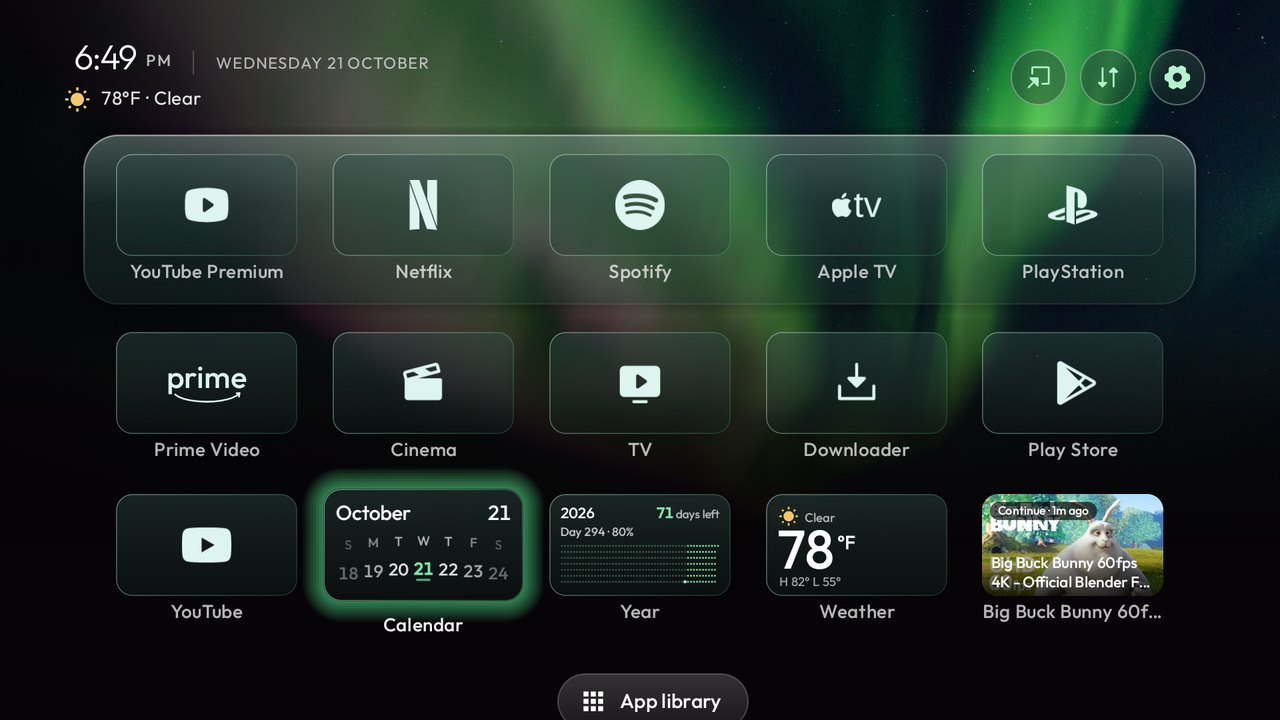
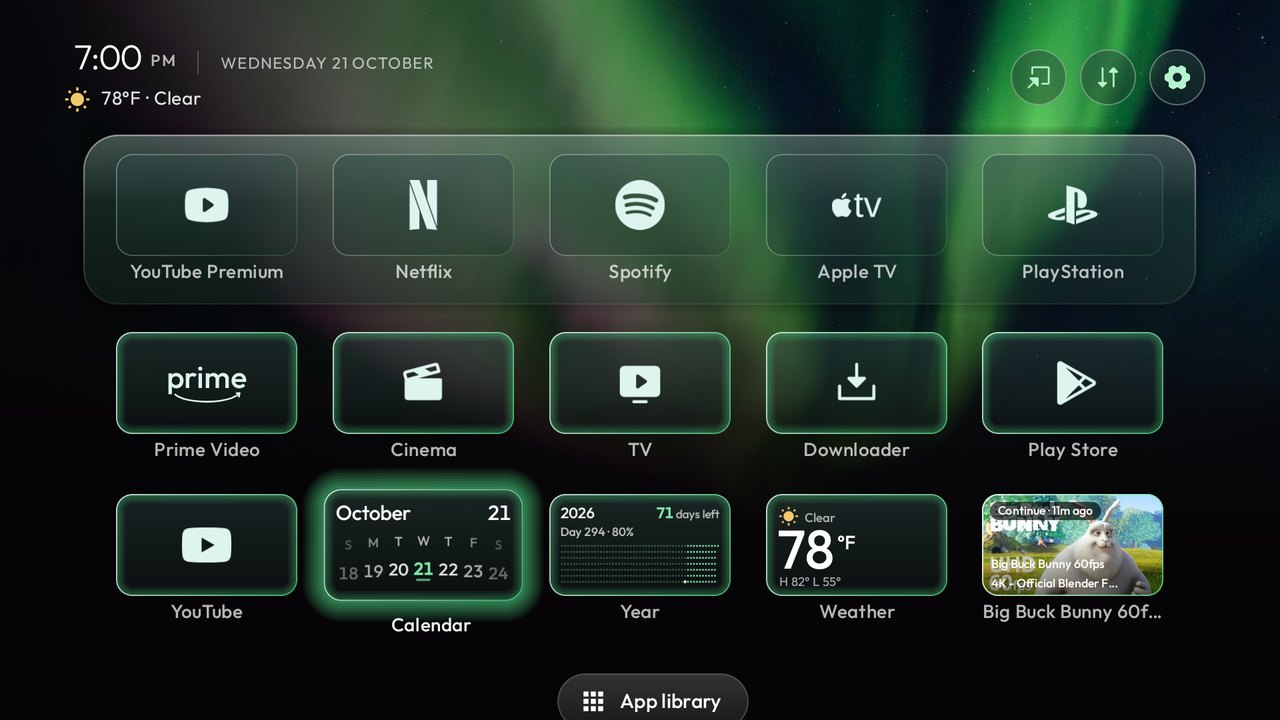
Outline row-two and widget tiles, stack screensaver widgets, refresh screenshots (#3)

diff --git a/launcher/app/src/main/java/com/gathin/tvhome/AppIcon.java b/launcher/app/src/main/java/com/gathin/tvhome/AppIcon.java
@@ -23,9 +23,17 @@ final class AppIcon extends Drawable {
     private final RectF panel = new RectF(1, 1, 319, 179);
     private final Drawable glyph;
     private final boolean prime;
+    private final Paint glowRim = new Paint(Paint.ANTI_ALIAS_FLAG);
+    private final Paint glowInner = new Paint(Paint.ANTI_ALIAS_FLAG);
+    private final RectF innerPanel = new RectF();
+    /** Rows under the dock and the widget tiles share a lit edge with a soft accent glow just inside it. */
+    private boolean outlined;
+    private final int accent;
 
     AppIcon(Context ctx, String pkg, Drawable fallback, boolean light, int accent) {
         int id = glyph(pkg);
+        this.accent = Tint.accent(accent);
+        outlined = pkg.equals("widget");
         prime = pkg.equals("com.amazon.amazonvideo.livingroom");
         Drawable source = id != 0 ? ctx.getDrawable(id) : fallback;
         if (source instanceof AdaptiveIconDrawable) source = ((AdaptiveIconDrawable) source).getForeground();
@@ -53,6 +61,19 @@ final class AppIcon extends Drawable {
         rim.setShader(new LinearGradient(0, 0, 320, 180,
                 light ? 0x99FFFFFF : Tint.withAlpha(ink, 0x80),
                 Tint.withAlpha(accent, 0x35), Shader.TileMode.CLAMP));
+        glowRim.setStyle(Paint.Style.STROKE);
+        glowRim.setStrokeWidth(2.6f);
+        glowRim.setShader(new LinearGradient(0, 0, 320, 180,
+                light ? 0xE6FFFFFF : Tint.withAlpha(ink, 0xE0),
+                Tint.withAlpha(this.accent, 0xC0), Shader.TileMode.CLAMP));
+        glowInner.setStyle(Paint.Style.STROKE);
+        glowInner.setStrokeWidth(3.6f);
+    }
+
+    void setOutlined(boolean outlined) {
+        if (this.outlined == outlined) return;
+        this.outlined = outlined;
+        invalidateSelf();
     }
 
     void setFocused(boolean focused) {
@@ -68,6 +89,7 @@ final class AppIcon extends Drawable {
             case "com.spotify.tv.android": return R.drawable.ic_brand_spotify;
             case "com.apple.atve.androidtv.appletv": return R.drawable.ic_brand_appletv;
             case "org.smarttube.stable": return R.drawable.ic_glyph_smarttube;
+            case "com.community.mbox.tv": return R.drawable.ic_glyph_moviebox;
             case "tv.own.owntv": return R.drawable.ic_glyph_owntv;
             case "ar.tvplayer.tv": return R.drawable.ic_glyph_tivimate;
             case "com.esaba.downloader": return R.drawable.ic_glyph_downloader;
@@ -82,7 +104,17 @@ final class AppIcon extends Drawable {
         c.translate(b.left, b.top);
         c.scale(b.width() / 320f, b.height() / 180f);
         c.drawRoundRect(panel, 28, 28, material);
-        c.drawRoundRect(panel, 28, 28, rim);
+        if (outlined) {
+            for (int i = 0; i < 4; i++) {
+                float inset = 3f + i * 3.4f;
+                innerPanel.set(panel.left + inset, panel.top + inset, panel.right - inset, panel.bottom - inset);
+                glowInner.setColor(Tint.withAlpha(accent, Math.round(0x46 * (1f - i / 4f))));
+                c.drawRoundRect(innerPanel, 28 - inset, 28 - inset, glowInner);
+            }
+            c.drawRoundRect(panel, 28, 28, glowRim);
+        } else {
+            c.drawRoundRect(panel, 28, 28, rim);
+        }
         if (prime) {
             c.drawText("prime", 160, 99, mark);
             mark.setStyle(Paint.Style.STROKE);

diff --git a/launcher/app/src/main/java/com/gathin/tvhome/AppAdapter.java b/launcher/app/src/main/java/com/gathin/tvhome/AppAdapter.java
@@ -413,10 +413,11 @@ public class AppAdapter extends RecyclerView.Adapter<RecyclerView.ViewHolder> {
                 String ago = RecentArt.shortAgo(now - (thumb != null ? Math.max(when, Thumbs.savedAt(ctx, a.pkg)) : when));
                 Drawable base = thumb != null ? thumb : glassIcons || a.banner == null || a.banner.getConstantState() == null
                         ? new AppIcon(ctx, a.pkg, a.icon, light, themeAccent) : a.banner.getConstantState().newDrawable().mutate();
+                if (base instanceof AppIcon) ((AppIcon) base).setOutlined(true);
                 String pill = ctx.getString(thumb != null ? R.string.recent_continue : R.string.recent_recent, ago);
                 zone.add(new Entry(Entry.RECENT, title != null ? title : a.label,
                         new ComponentName(a.pkg, "recent/" + a.component.getClassName()),
-                        a.component, new RecentArt(ctx, base, pill, title), a.icon, null, a.ambient, 0));
+                        a.component, new RecentArt(ctx, base, pill, title, themeAccent), a.icon, null, a.ambient, 0));
                 break;
             }
         }
@@ -605,7 +606,10 @@ public class AppAdapter extends RecyclerView.Adapter<RecyclerView.ViewHolder> {
         boolean glassTile = glassIcons && (e.kind == Entry.APP || e.kind == Entry.INPUT || e.kind == Entry.HOME_SETTINGS);
         if (glassTile && e.glassArt == null) e.glassArt = new AppIcon(ctx, e.pkg, e.icon, light, themeAccent);
         Drawable art = glassTile ? e.glassArt : e.banner;
-        if (art instanceof AppIcon) ((AppIcon) art).setFocused(focused);
+        if (art instanceof AppIcon) {
+            ((AppIcon) art).setFocused(focused);
+            ((AppIcon) art).setOutlined(e.kind == Entry.WIDGET || !(dockRow && position < dockSize));
+        }
         boolean bare = glassTile || e.kind == Entry.WIDGET || e.kind == Entry.RECENT;
         h.card.setBackground(bare || art != null && art.getOpacity() == PixelFormat.OPAQUE ? null : h.cardBackground);
         if (art != null) {

diff --git a/launcher/app/src/main/java/com/gathin/tvhome/RecentArt.java b/launcher/app/src/main/java/com/gathin/tvhome/RecentArt.java
@@ -27,13 +27,19 @@ final class RecentArt extends Drawable {
     private final Paint fill = new Paint(Paint.ANTI_ALIAS_FLAG);
     private final TextPaint text = new TextPaint(Paint.ANTI_ALIAS_FLAG);
     private final RectF box = new RectF();
+    private final Paint rim = new Paint(Paint.ANTI_ALIAS_FLAG);
+    private final RectF panel = new RectF(1, 1, 319, 179);
     private StaticLayout titleLayout;
 
-    RecentArt(Context ctx, Drawable base, String pill, String title) {
+    RecentArt(Context ctx, Drawable base, String pill, String title, int accent) {
         this.base = base;
         this.pill = pill;
         this.title = title;
         text.setTypeface(ctx.getResources().getFont(R.font.outfit_medium));
+        // The same lit edge the other row-two and widget tiles have, so a picture tile sits in the row.
+        rim.setStyle(Paint.Style.STROKE);
+        rim.setStrokeWidth(2.6f);
+        rim.setShader(new LinearGradient(0, 0, 320, 180, 0xE0FFFFFF, Tint.withAlpha(Tint.accent(accent), 0xC0), Shader.TileMode.CLAMP));
     }
 
     @Override public void draw(Canvas c) {
@@ -62,6 +68,7 @@ final class RecentArt extends Drawable {
             titleLayout.draw(c);
             c.restore();
         }
+        if (!(base instanceof AppIcon)) c.drawRoundRect(panel, 28, 28, rim);
         text.setTextSize(21);
         text.setTypeface(Typeface.create(text.getTypeface(), Typeface.NORMAL));
         float pw = text.measureText(pill) + 28;

diff --git a/launcher/app/src/main/java/com/gathin/tvhome/ClockScene.java b/launcher/app/src/main/java/com/gathin/tvhome/ClockScene.java
@@ -87,8 +87,9 @@ final class ClockScene {
         }
         float widgetScale = WidgetScale.factor(root.getContext());
         if (monthCard != null) {
-            WidgetScale.apply(monthCard, widgetScale);
-            WidgetScale.apply(yearCard, widgetScale);
+            // The cards are stacked under the clock, so Large would run off the bottom of a 1080p screen.
+            WidgetScale.apply(monthCard, Math.min(widgetScale, 1f));
+            WidgetScale.apply(yearCard, Math.min(widgetScale, 1f));
         }
         weatherLine = config.weather ? root.findViewById(R.id.dreamWeather) : null;
         if (weatherLine != null) weatherLine.setTextSize(18 * widgetScale);

diff --git a/README.md b/README.md
@@ -25,7 +25,7 @@ A glass launcher with 16 themes, an Apple-style magnifying dock and optional wid
 
 ### Glass dock
 
-The dock magnifies the app under focus, and a soft light in the theme's colour flows along it.
+The dock magnifies the app under focus, and a soft light in the theme's colour flows along it. Row-two and widget tiles share one lit, glowing outline, so the whole home reads as one piece.
 
 ![The home screen: a glass dock with five apps, a row of apps, and a widget row with calendar, year, weather and a continue-watching tile](docs/screenshots/features/dock.jpg)
 
@@ -55,7 +55,13 @@ Everything is chosen on the TV with the remote: theme, theme rotation, widget si
 |---|---|---|
 | ![The gear menu](docs/screenshots/features/menu.jpg) | ![Theme picker](docs/screenshots/features/theme-picker.jpg) | ![Launcher settings](docs/screenshots/features/launcher-settings.jpg) |
 
-Also: weather under the clock, screensaver widgets, light mode, and a PlayStation, Xbox or Switch tile when one is on HDMI. Weather and the continue-watching picture use the internet, so the assistant asks before turning them on. Details, keys and undo steps: `docs/launcher.md`.
+### Screensaver
+
+The clock, date, weather, calendar and year card drift together at the top left, the cards stacked one under the other.
+
+![Screensaver: a large clock top left, with the weather line, the calendar card and the year card stacked beneath it over the Northern Lights](docs/screenshots/features/screensaver.jpg)
+
+Also: weather under the clock, light mode, and a PlayStation, Xbox or Switch tile when one is on HDMI. Weather and the continue-watching picture use the internet, so the assistant asks before turning them on. Details, keys and undo steps: `docs/launcher.md`.
 
 ## Themes
 

diff --git a/docs/screenshots/README.md b/docs/screenshots/README.md
@@ -9,7 +9,7 @@ Taken from the author's TV. The README shows all of them.
 | `home-no-wallpaper.png` | tv-cleanup launcher with a plain background. |
 | `hero-themes.jpg`, `theme-cycle.gif` | Eight themes side by side, and all 16 in a loop. |
 | `themes/<id>.jpg` | Each bundled theme on the home screen. |
-| `features/*.jpg` | Dock, widget row, hidden dock, calendar, year card and settings. |
+| `features/*.jpg` | Dock, widget row, hidden dock, calendar, year card, screensaver and settings. |
 
 Theme and feature pictures are 1280x720 JPEGs from the author's TV. The continue-watching tile shows Big Buck Bunny (Blender Foundation, CC BY 3.0).
 
